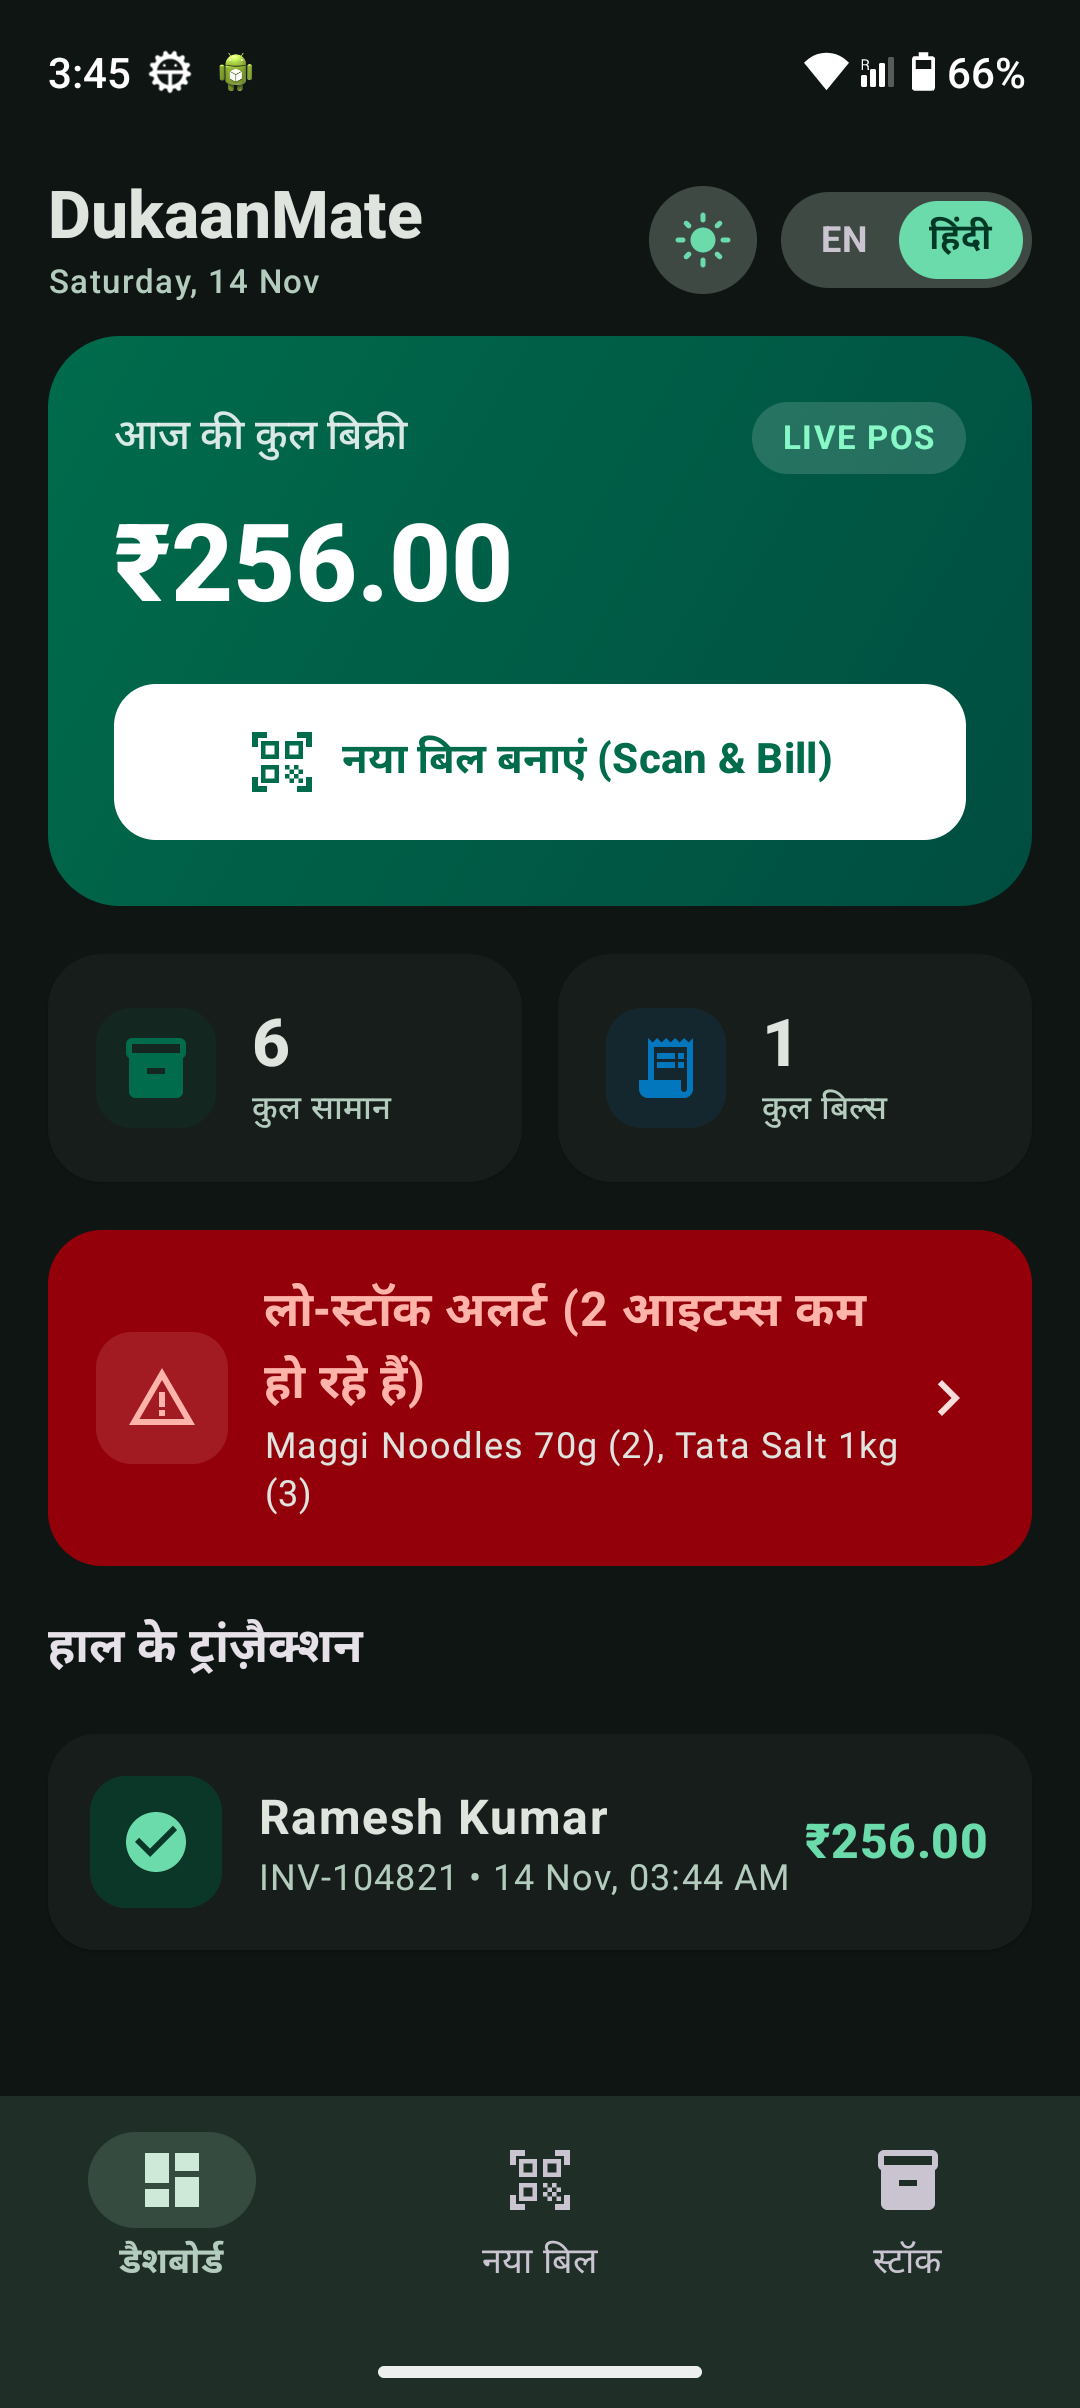
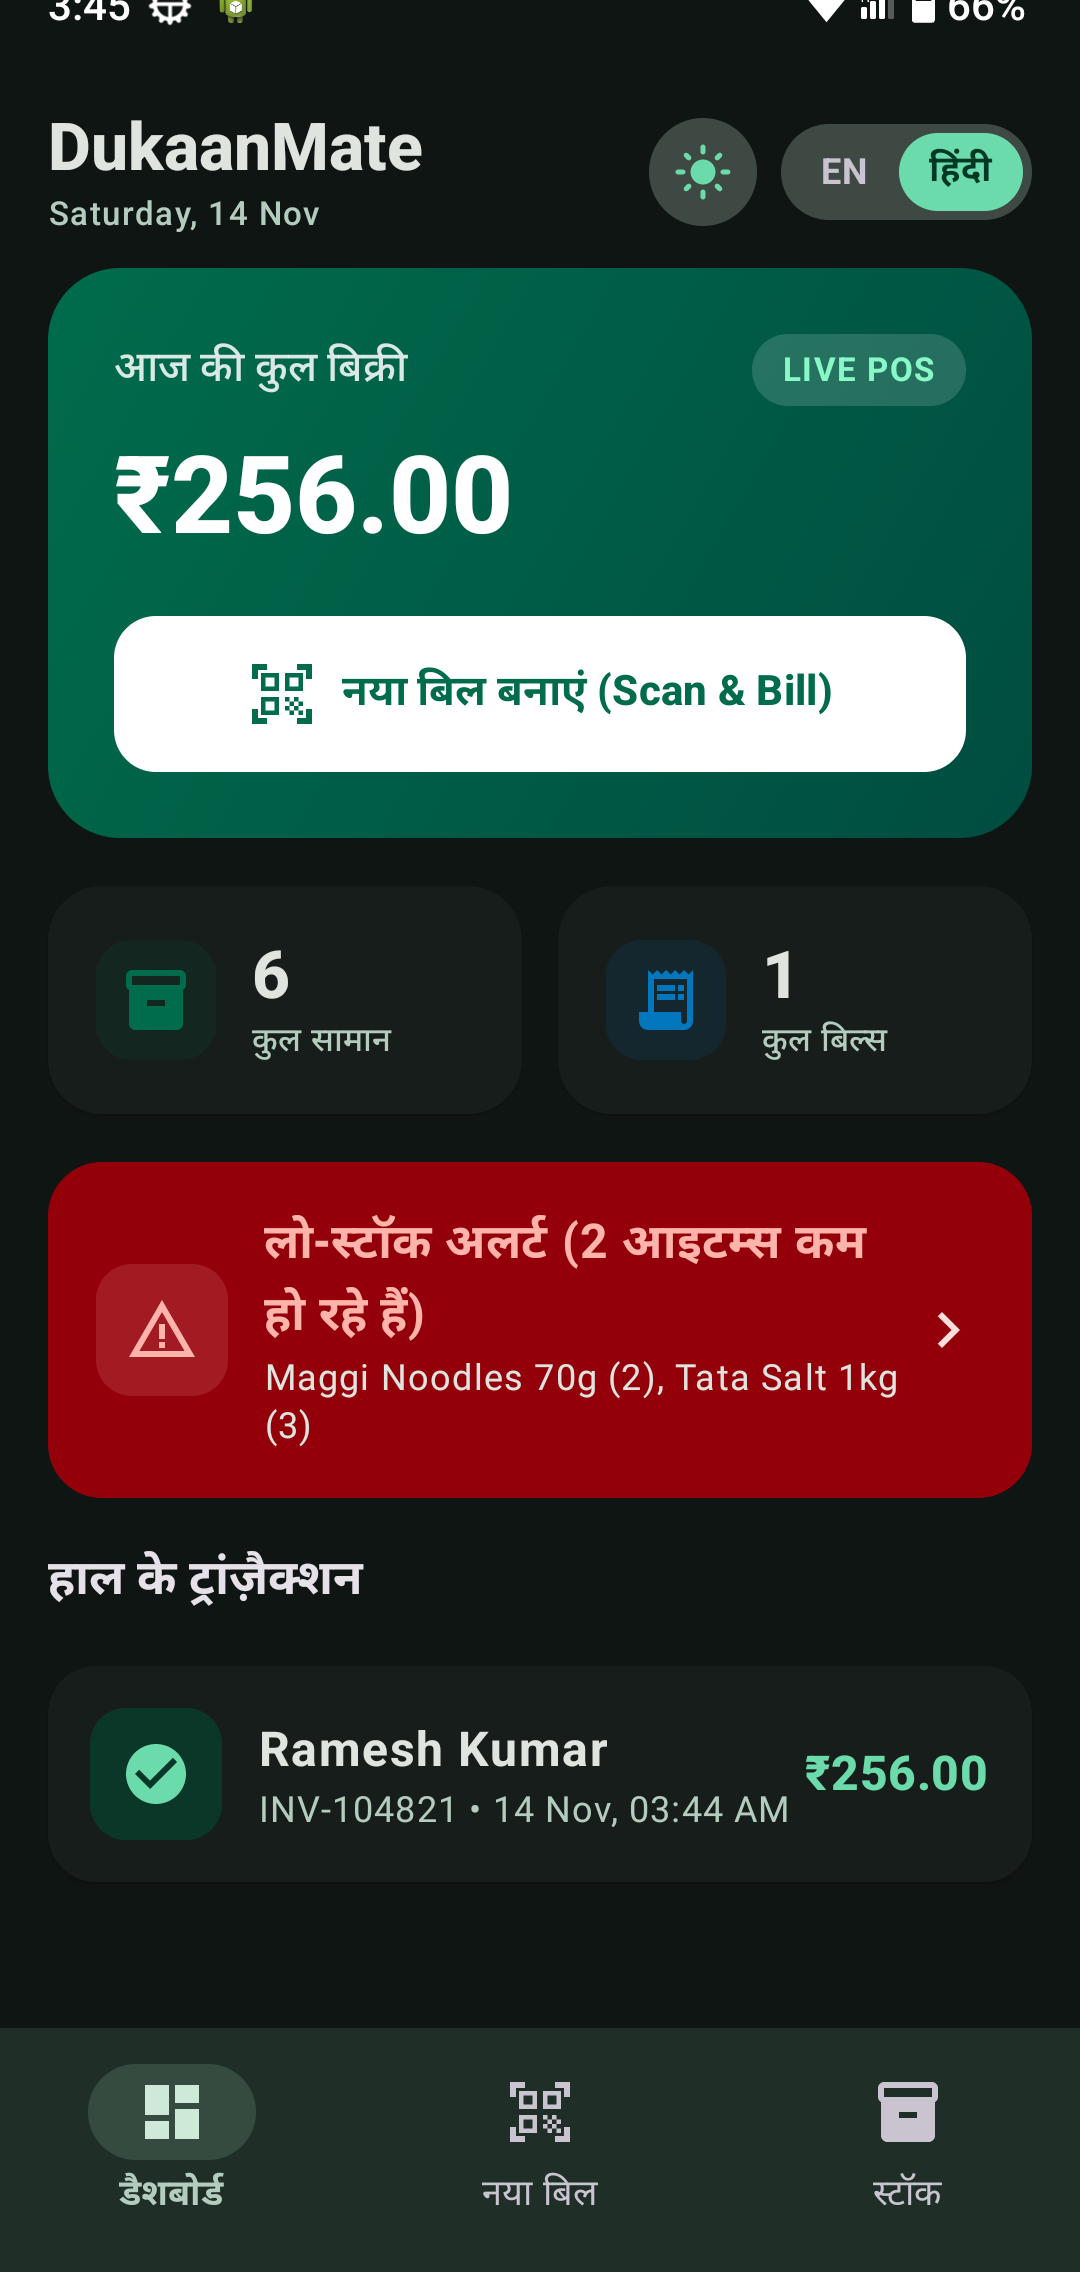
Update screenshots size to 1080x2272, remove freelance section from README, change default branch to master

diff --git a/README.md b/README.md
@@ -142,15 +142,6 @@ com.portfolio.dukaanmate/
 
 ---
 
-## 💼 Freelance & Commercial Extensibility
-
-This codebase is structured for rapid client customization and white-labeling:
-* **Thermal Printing:** Ready to plug in 58mm / 80mm Bluetooth ESC/POS thermal printer SDKs.
-* **GST & Tax Compliance:** Easily extendable for CGST / SGST slab calculations on PDF invoices.
-* **Cloud Sync:** Repository abstraction allows adding encrypted Google Drive or Firebase backup without touching UI code.
-
----
-
 ## 👨💻 Author
 
 Built as a flagship Android POS & Inventory portfolio project. Feel free to ⭐ star the repository or connect for custom Android app development!
